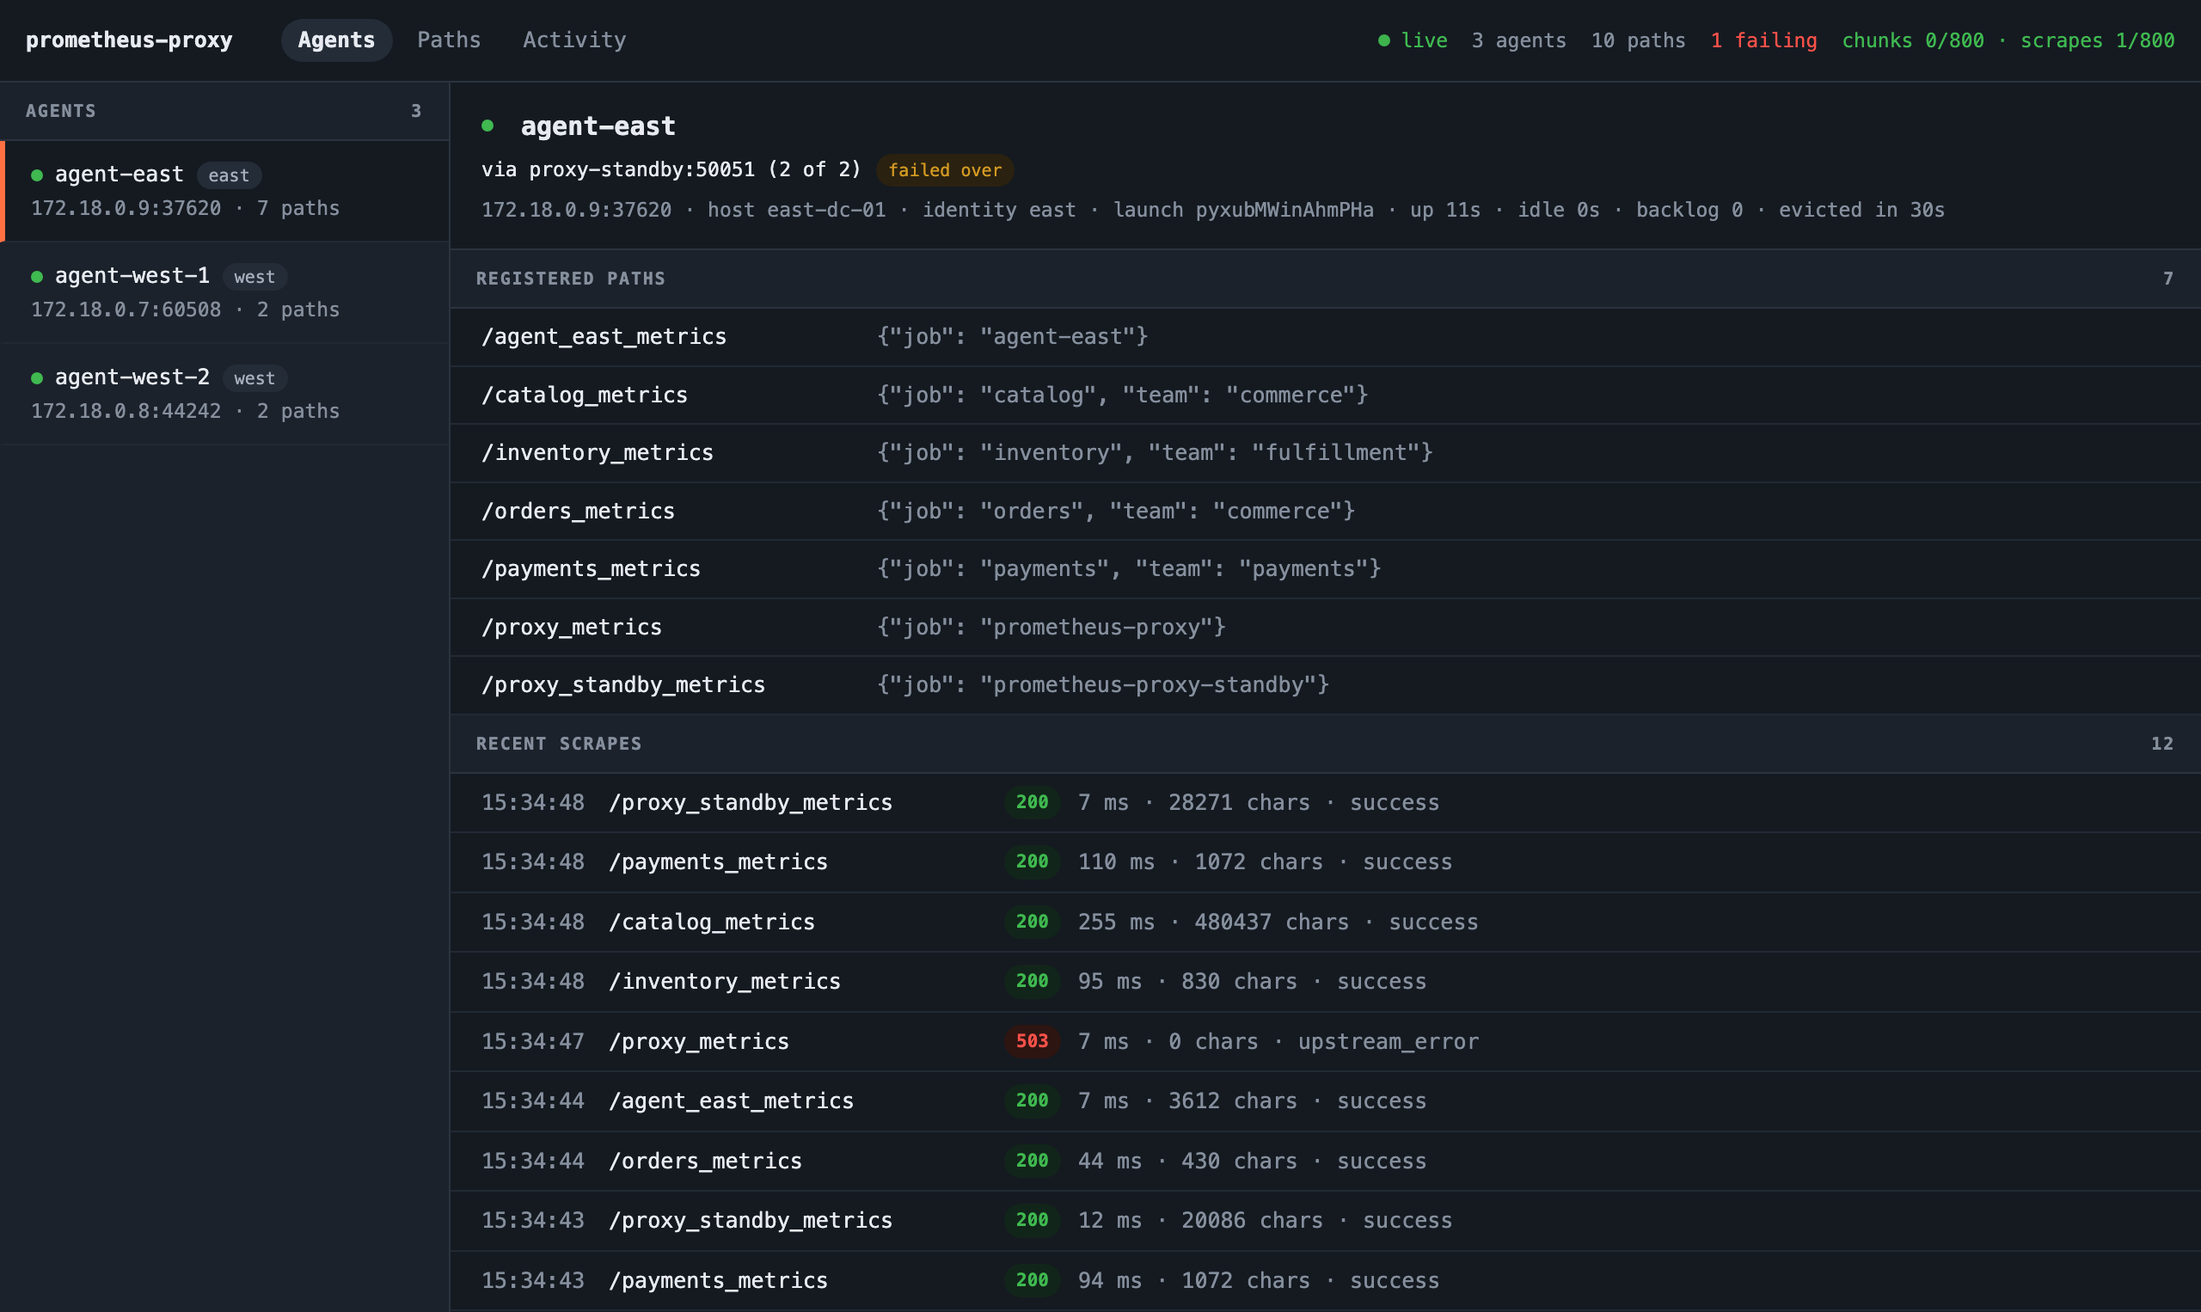
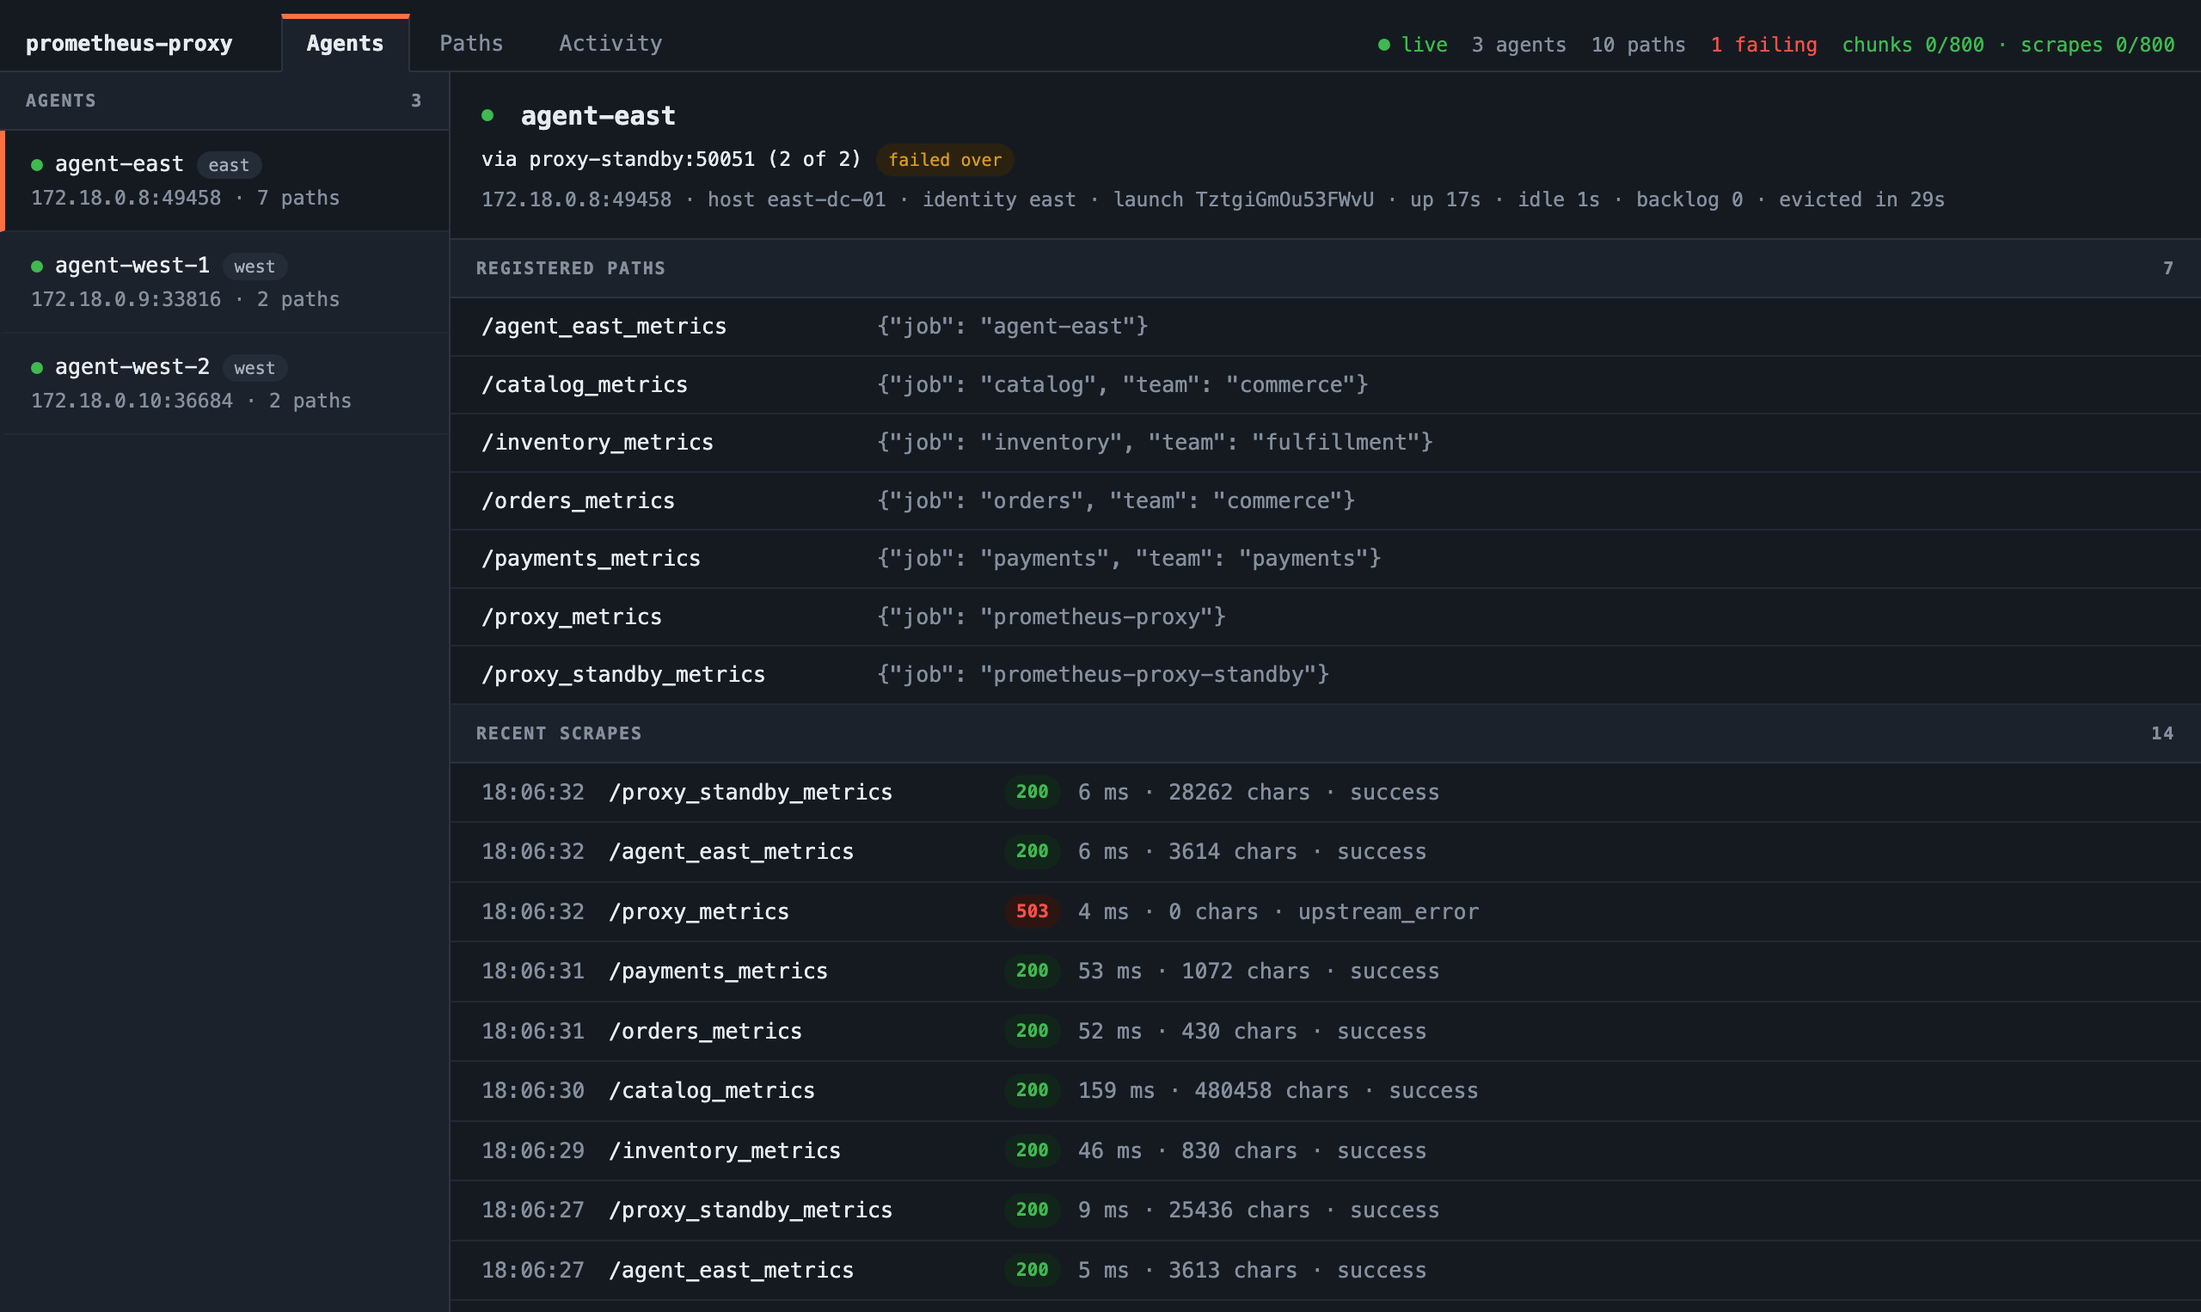
Draw the dashboard's views as folder tabs, switched with the arrow keys
The Agents, Paths, and Activity links were pills, the shape the design keeps for status badges, so they
read as buttons. They are now folder tabs: the current one is outlined, with the accent on its top edge,
as the selected agent row has it on its left, and opens into the strip below it. At 720px and below the
tabs take the bar's last row, so they still open onto the content.

Left and Right open the view before or after the current one from anywhere on the page but a text field.
Scoped to a focused tab they never fired: a click loads a page focused on <body>, and Safari never
focuses a link. In forced colors the tabs paint themselves in system colors, since forced colors draw
transparent borders too and boxed every tab alike.

DESIGN.md's Two Places Rule now names the current item's edge, the website's dashboard page mentions the
arrow keys, and the Live Demo screenshots are retaken.

diff --git a/src/main/kotlin/io/prometheus/proxy/dashboard/ProxyDashboardCss.kt b/src/main/kotlin/io/prometheus/proxy/dashboard/ProxyDashboardCss.kt
@@ -54,10 +54,14 @@ internal object ProxyDashboardCss {
     body { background:var(--bg); color:var(--ink); font-family:var(--mono); font-size:12.5px; line-height:1.5;
            display:flex; flex-direction:column; min-height:100vh; }
     body > main { flex:1; }
-    .bar { display:flex; align-items:center; justify-content:space-between; flex-wrap:wrap; gap:10px;
-           padding:11px 15px; border-bottom:1px solid var(--line); background:var(--surface); }
-    .brand { font-weight:600; }
-    .bar-right { display:flex; align-items:center; flex-wrap:wrap; gap:14px; color:var(--ink-3); font-size:11.5px; }
+    /* The tabs stand on the bar's bottom rule, so the bar has no bottom padding and sets its items on its floor; the
+       brand and the status carry their own, which puts their text on the tabs' line. One row above 720px: the status
+       wraps inside itself, so it never pushes the tabs off the rule. */
+    .bar { display:flex; align-items:flex-end; gap:10px; padding:8px 15px 0; border-bottom:1px solid var(--line);
+           background:var(--surface); }
+    .brand { font-weight:600; flex:none; padding-bottom:6px; }
+    .bar-right { display:flex; align-items:center; justify-content:flex-end; flex-wrap:wrap; gap:2px 14px;
+      margin-left:auto; min-width:0; padding-bottom:6px; color:var(--ink-3); font-size:11.5px; }
     /* Each stat stays whole; the row wraps between them rather than mid-phrase, which at 390px was
        splitting "0 agents" across two lines. */
     .bar-right > span { white-space:nowrap; }
@@ -84,7 +88,8 @@ internal object ProxyDashboardCss {
       border:0; border-bottom:1px solid var(--line-soft); border-left:3px solid transparent;
       padding:10px 15px; color:var(--ink); }
     .md-row:hover { background:var(--surface-3); }
-    .md-row:focus-visible { outline:2px solid var(--accent); outline-offset:-2px; }
+    /* Inside the row, and inside a tab, which meets the strip below it. */
+    .md-row:focus-visible, .nav a:focus-visible { outline:2px solid var(--accent); outline-offset:-2px; }
     .md-row[aria-current="true"] { background:var(--surface); border-left-color:var(--accent); }
     /* 11.5px, matching .bar-right and .hero-meta: this is the same job -- quiet supporting metadata --
        and a separate 11px step for it was a size the hierarchy never used. */
@@ -109,14 +114,31 @@ internal object ProxyDashboardCss {
     .empty { color:var(--ink-3); padding:14px 15px; }
     .empty.pad { padding:22px 18px; }
     .empty.gone { color:var(--crit); }
-    .nav { display:flex; gap:4px; margin-right:auto; margin-left:18px; }
-    .nav a { color:var(--ink-3); text-decoration:none; padding:3px 10px; border-radius:20px; }
-    .nav a:hover { background:var(--surface-3); color:var(--ink); }
-    /* The focus ring of every control but a list row, whose ring is inset (above). */
-    .nav a:focus-visible, .copy:focus-visible, .scrape-now:focus-visible, .close:focus-visible,
+    /* Folder tabs. The nav reaches 1px below the bar into its rule, so a tab's bottom edge lies on the rule: a tab
+       at rest leaves it showing through its transparent border, and the current tab paints it the strip's colour, so
+       the tab opens into the strip below it. Every view's first strip is --surface-2 (the search, or the agent list
+       under the Agents tab). Rectangles, as everything that holds content is, with the current item's accent edge
+       on top, as the current agent row has it on the left. */
+    .nav { display:flex; align-items:flex-end; gap:2px; flex:none; margin:0 0 -1px 18px; }
+    .nav a { color:var(--ink-3); text-decoration:none; padding:5px 14px 6px; border:1px solid transparent;
+      border-top-width:3px; background-clip:padding-box; }
+    .nav a:hover { background-color:var(--surface-2); color:var(--ink); }
+    .nav a.on { background-color:var(--surface-2); color:var(--ink); font-weight:600; border-color:var(--line);
+      border-top-color:var(--accent); border-bottom-color:var(--surface-2); }
+    /* Forced colours paint every border, the transparent ones too, which boxed every tab alike and left the current
+       one told apart by its weight alone. Here the tabs keep their own paint, in system colours: a link at rest, and
+       the current tab outlined, its top edge in Highlight and its bottom open onto the content. */
+    @media (forced-colors: active) {
+      .nav a { forced-color-adjust:none; color:LinkText; background-color:Canvas; border-color:transparent; }
+      .nav a:hover { background-color:Canvas; text-decoration:underline; }
+      .nav a.on { color:CanvasText; background-color:Canvas; border-color:CanvasText; border-top-color:Highlight;
+        border-bottom-color:Canvas; }
+      .nav a:focus-visible { outline-color:Highlight; }
+    }
+    /* The focus ring of every control but a list row and a tab, whose rings are inset (above). */
+    .copy:focus-visible, .scrape-now:focus-visible, .close:focus-visible,
     .filters input:focus-visible, .ptable td.links a:focus-visible {
       outline:2px solid var(--accent); outline-offset:1px; }
-    .nav a.on { background:var(--surface-3); color:var(--ink); font-weight:600; }
     /* The table is the one region that can outgrow a narrow viewport, so it scrolls inside its own
        container rather than letting the page body scroll sideways. */
     .scroller { overflow-x:auto; background:var(--surface); }
@@ -192,12 +214,18 @@ internal object ProxyDashboardCss {
     .hist i.ok { --dot:var(--ok); } .hist i.crit { --dot:var(--crit); }
     /* Forced colours drop backgrounds, the dots included. */
     @media (forced-colors: active) { .hist i { forced-color-adjust:none; } }
-    @media (max-width:720px) { .md { grid-template-columns:1fr; } .md-list { border-right:0; border-bottom:1px solid var(--line); } }
-    /* Touch, not width: a 25px pill is a comfortable mouse target and a poor thumb one, and the two do
+    /* Narrow, the tabs take a row of their own, the bar's last, so they still stand on its rule and open into the strip
+       below; the brand and the status share the rows above. */
+    @media (max-width:720px) {
+      .md { grid-template-columns:1fr; } .md-list { border-right:0; border-bottom:1px solid var(--line); }
+      .bar { flex-wrap:wrap; row-gap:4px; }
+      .nav { order:1; flex-basis:100%; margin-left:0; }
+    }
+    /* Touch, not width: a 34px tab is a comfortable mouse target and a poor thumb one, and the two do
        not correlate with viewport size -- a tablet is wide and touch-driven. The dense bar is kept for
        pointer devices rather than spending vertical space everyone pays for. */
     @media (pointer: coarse) {
-      .nav a { min-height:44px; display:inline-flex; align-items:center; padding:0 14px; }
+      .nav a { min-height:44px; display:inline-flex; align-items:center; padding-top:0; padding-bottom:0; }
     }
     """.trimIndent()
 }

diff --git a/src/main/kotlin/io/prometheus/proxy/dashboard/DashboardScript.kt b/src/main/kotlin/io/prometheus/proxy/dashboard/DashboardScript.kt
@@ -21,6 +21,7 @@ import io.prometheus.proxy.dashboard.ProxyDashboardHtml.COPY_ATTR
 import io.prometheus.proxy.dashboard.ProxyDashboardHtml.FILTER_PROBLEMS_ID
 import io.prometheus.proxy.dashboard.ProxyDashboardHtml.FILTER_QUERY_ID
 import io.prometheus.proxy.dashboard.ProxyDashboardHtml.MATCH_COUNT_ATTR
+import io.prometheus.proxy.dashboard.ProxyDashboardHtml.NAV_ID
 import io.prometheus.proxy.dashboard.ProxyDashboardHtml.PROXY_PATH_ATTR
 import io.prometheus.proxy.dashboard.ProxyDashboardHtml.SAY_ATTR
 import io.prometheus.proxy.dashboard.ProxyDashboardHtml.SCRAPE_ID_PREFIX
@@ -54,8 +55,8 @@ internal object DashboardScript {
   /**
    * The page's script. It reads the selection back out of the URL that hx-push-url already set, and tells the server,
    * so the push loop knows whether this session wants a detail pane. It also runs the connection indicator, the path
-   * search, the copy and scrape-now buttons, and the scrape times' conversion to the viewer's zone, the only things on
-   * the page that htmx does not model; everything else is htmx.
+   * search, the copy and scrape-now buttons, the tabs' arrow keys, and the scrape times' conversion to the viewer's
+   * zone, the only things on the page that htmx does not model; everything else is htmx.
    */
   val JS =
     """
@@ -306,6 +307,48 @@ internal object DashboardScript {
         else if (scrape) scrapeNow(scrape);
         else if (panel && evt.target.closest('button.close')) closeScrapeResult(panel);
       });
+      // The tabs. Left and Right open the view before or after the current one, wrapping at the ends, from anywhere on
+      // the page: not only from a focused tab, since a click on a tab loads a page whose focus is on <body>, and Safari
+      // never focuses a link on a click or a Tab. Not while typing, so the arrows still move the caret in the search.
+      // A bare key only: Alt+Left is the browser's Back, and a held key would start a page load per repeat. On <body>,
+      // as the other listeners are: a back or forward swaps a new nav in.
+      var TAB_FOCUS_KEY = 'proxy-dashboard-tab-focus';
+      function typingIn(el) {
+        if (el.isContentEditable) return true;
+        var tag = el.tagName;
+        return tag === 'TEXTAREA' || tag === 'SELECT' || (tag === 'INPUT' && el.type !== 'checkbox');
+      }
+      document.body.addEventListener('keydown', function (evt) {
+        if (evt.key !== 'ArrowLeft' && evt.key !== 'ArrowRight') return;
+        if (evt.altKey || evt.ctrlKey || evt.metaKey || evt.shiftKey || evt.repeat || !evt.target.closest) return;
+        if (typingIn(evt.target)) return;
+        // From the focused tab when one is, else from the current view's.
+        var focusedTab = evt.target.closest('#$NAV_ID a');
+        var from = focusedTab || document.querySelector('#$NAV_ID a[aria-current="page"]');
+        if (!from) return;
+        var tabs = Array.prototype.slice.call(document.querySelectorAll('#$NAV_ID a'));
+        var step = evt.key === 'ArrowRight' ? 1 : -1;
+        var next = tabs[(tabs.indexOf(from) + step + tabs.length) % tabs.length];
+        evt.preventDefault();
+        // A keyboard user on a tab keeps their place: the page that opens focuses its own tab (below). Storage can throw
+        // (a sandboxed frame, storage turned off); the view still opens, without the focus.
+        if (focusedTab) {
+          try { sessionStorage.setItem(TAB_FOCUS_KEY, next.pathname); } catch (e) {}
+        }
+        window.location.assign(next.href);
+      });
+      // A page an arrow opened focuses its own tab. Only the page the arrow named: a load that failed leaves the key
+      // behind, and the next page this browser tab opens may be another view, which no arrow asked to focus.
+      (function () {
+        var arrowedTo = null;
+        try {
+          arrowedTo = sessionStorage.getItem(TAB_FOCUS_KEY);
+          sessionStorage.removeItem(TAB_FOCUS_KEY);
+        } catch (e) {}
+        var current = arrowedTo === window.location.pathname &&
+          document.querySelector('#$NAV_ID a[aria-current="page"]');
+        if (current) current.focus({ focusVisible: true });
+      })();
       // A path's proxy URL, the one to curl to check it through the proxy: the host this page was opened at, which the
       // proxy can't know, and the port Prometheus scrapes, which is plain HTTP. An IPv6 host keeps its brackets.
       function proxyUrl(path) {

diff --git a/src/test/kotlin/io/prometheus/proxy/dashboard/ProxyDashboardHtmlTest.kt b/src/test/kotlin/io/prometheus/proxy/dashboard/ProxyDashboardHtmlTest.kt
@@ -701,6 +701,27 @@ class ProxyDashboardHtmlTest : StringSpec() {
       agentPage shouldNotContain "aria-current=\"page\""
     }
 
+    // Left and Right open the neighbouring view from anywhere on the page, not only from a focused tab: a click on a
+    // tab loads a page whose focus is on <body>, and Safari never focuses a link on a click or a Tab. Typing is left
+    // alone, so the arrows still move the caret in the search, as is a modified key: Alt+Left is the browser's Back.
+    // A tab that had focus gets it back on the page that opens, so a keyboard user's next arrow keeps going from it.
+    "the page script should switch views with the arrow keys from anywhere but a text field" {
+      val page = renderFullPage(snapshot(), DashboardLayout.PATH)
+
+      page shouldContain """<nav class="nav" id="${ProxyDashboardHtml.NAV_ID}">"""
+      page shouldContain "evt.key !== 'ArrowLeft' && evt.key !== 'ArrowRight'"
+      page shouldContain "evt.altKey || evt.ctrlKey || evt.metaKey || evt.shiftKey || evt.repeat"
+      page shouldContain "if (typingIn(evt.target)) return;"
+      page shouldContain
+        "var from = focusedTab || document.querySelector('#${ProxyDashboardHtml.NAV_ID} a[aria-current=\"page\"]');"
+      page shouldContain "(tabs.indexOf(from) + step + tabs.length) % tabs.length"
+      // The gate that left the arrows working only from a focused tab.
+      page shouldNotContain
+        "var tab = evt.target.closest('#${ProxyDashboardHtml.NAV_ID} a');\n        if (!tab) return;"
+      page shouldContain "window.location.assign(next.href);"
+      page shouldContain "arrowedTo === window.location.pathname"
+    }
+
     // A request of the script's own, carrying the header the route requires, so another site's page can't send it.
     "the page script should post a scrape-now with htmx's header and put the result in the panel" {
       val page = renderFullPage(snapshot())

diff --git a/src/main/kotlin/io/prometheus/proxy/dashboard/ProxyDashboardHtml.kt b/src/main/kotlin/io/prometheus/proxy/dashboard/ProxyDashboardHtml.kt
@@ -97,6 +97,10 @@ internal object ProxyDashboardHtml {
   const val PATH_TABLE_ID = "path-table"
   const val ACTIVITY_ID = "activity"
   const val ANNOUNCER_ID = "conn-announce"
+
+  // The tabs, which the page's script moves between with the arrow keys. No path or agent can give an element this id:
+  // every id built from one starts with a prefix (agent-row-, copy-, scrape-path-).
+  const val NAV_ID = "layout-nav"
   const val VIEW_ATTR = "data-view"
   const val COPY_ATTR = "data-copy"
   const val PROXY_PATH_ATTR = "data-proxy-path"
@@ -208,18 +212,22 @@ internal object ProxyDashboardHtml {
   }
 
   /**
-   * The layout switcher: a plain link per [DashboardLayout], no htmx.
+   * The layout switcher: a plain link per [DashboardLayout], no htmx, drawn as tabs.
    *
    * Deliberately a real navigation rather than a swap. The layouts have disjoint region ids, so
    * swapping one in would leave the push loop addressing elements that no longer exist; a page load
    * makes that impossible by construction. It also costs nothing worth saving — this fires on an
    * explicit click, not on an update, and the socket re-announces the new layout as soon as it opens.
+   *
+   * Links in a `<nav>` with `aria-current`, not ARIA tabs: each opens a page of its own, which `role="tab"` would
+   * misstate. The page's script adds the arrow keys (see DashboardScript).
    */
   fun FlowContent.renderNav(
     routeBase: String,
     layout: DashboardLayout,
   ) {
     nav("nav") {
+      attributes["id"] = NAV_ID
       DashboardLayout.entries.forEach { navLink(routeBase, it, current = it == layout) }
     }
   }

diff --git a/website/prometheus-proxy/docs/web-dashboard.md b/website/prometheus-proxy/docs/web-dashboard.md
@@ -60,7 +60,8 @@ Then open `http://<proxy-host>:8094/dashboard`.
 
 ## Three layouts
 
-The top bar switches between them, and each is a real URL you can bookmark or share:
+The tabs in the top bar switch between them, and each is a real URL you can bookmark or share. The Left and Right
+arrow keys open the view before or after the current one, except while you're typing in the search.
 
 | | Answers | Shape |
 |---|---|---|
